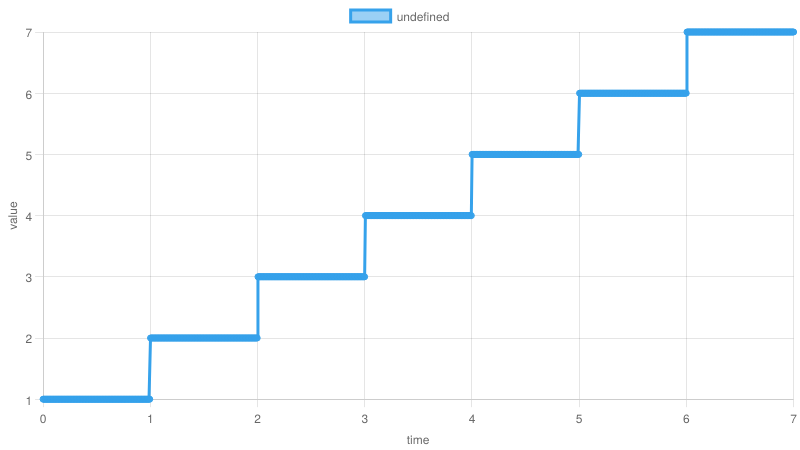
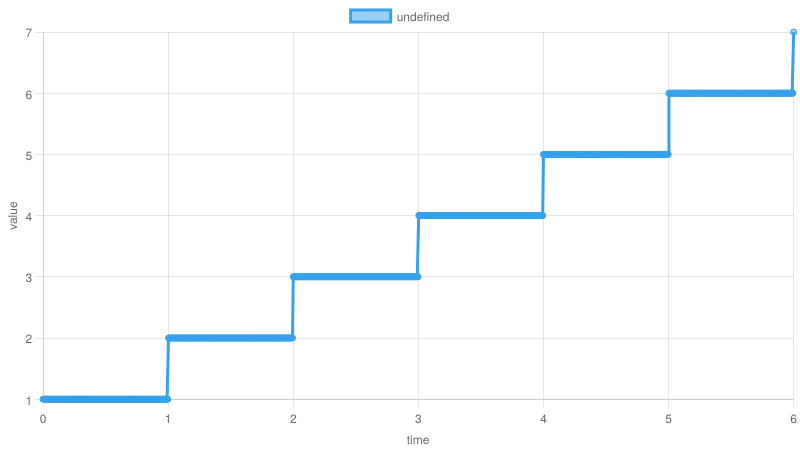
feat: wip

diff --git a/src/all.ts b/src/all.ts
@@ -1,5 +1,5 @@
-import type { Task, TaskFunc, Track } from './index.ts'
-import { runProcedural } from './index.ts'
+import type { Task, TaskFunc, Track } from './index'
+import { runProcedural } from './index'
 
 /**
  * Run multiple tasks in parallel and return a task that is finished when all of the tasks are finished.

diff --git a/test/index.spec.ts b/test/index.spec.ts
@@ -1,6 +1,6 @@
 import { describe, expect, it } from 'vitest'
-import { all } from '../src/all.ts'
-import { any, compile, createTrack, runDeclarative, runProcedural, sleep, toVisibleFrames, useCompiled, useRef } from '../src/index.ts'
+import { all } from '../src/all'
+import { any, compile, createTrack, runDeclarative, runProcedural, sleep, toVisibleFrames, useCompiled, useRef } from '../src/index'
 
 const eps = 1e-5
 describe('index', () => {

diff --git a/src/index.ts b/src/index.ts
@@ -193,7 +193,7 @@ export function any<TNumber extends number>(tasks: Task<TNumber>[]): TaskAny<TNu
 /**
  * Compute whether any ancestor task of the given tasks is not suppended.
  * @param tasks
- * @returns
+ * @returns A map from the given tasks to whether any ancestor task of the task is not suspended.
  */
 function updateTaskActive<TNumber extends number>(tasks: ReadonlySet<Readonly<Task<TNumber>>>): ReadonlyMap<Readonly<Task<TNumber>>, boolean> {
   const taskActive = new Map<Readonly<Task<TNumber>>, boolean>()

diff --git a/README.md b/README.md
@@ -35,7 +35,7 @@ Video generation using TypeScript is a hot topic. Typically such package require
 <!-- skip doccmd[all]: start -->
 
 ```ts
-type DeclarativeFunction<T> = (time: number) => T | undefined
+type DeclarativeFunction<T> = (time: number) => T
 ```
 
 However, it's often more intuitive to write state transitions in a procedural way:
@@ -116,10 +116,16 @@ Our package uses the second approach.
 
 <!-- group doccmd[all]: start -->
 
+<!-- skip doccmd[all]: next -->
+
 ```ts
-import { plotHistory } from './plot.ts'
-import { all, any, compile, createTrack, runDeclarative, runProcedural, sleep, useCompiled, useRef } from './src/index.ts'
+import { all, any, compile, createTrack, runDeclarative, runProcedural, sleep, useCompiled, useRef } from 'procedural-to-declarative'
 ```
+
+<!-- invisible-code-block: ts
+import { plotHistory } from '../plot'
+import { all, any, compile, createTrack, runDeclarative, runProcedural, sleep, useCompiled, useRef } from '../src/index'
+-->
 
 ```ts
 const track = createTrack<number>()
@@ -153,8 +159,8 @@ await plotHistory(track, compiled, x, 'plots/usage-x.png', 1000)
 <!-- group doccmd[all]: start -->
 
 <!-- invisible-code-block: ts
-import { plotHistory } from './plot.ts'
-import { all, any, compile, createTrack, runDeclarative, runProcedural, sleep, useCompiled, useRef } from './src/index.ts'
+import { plotHistory } from '../plot'
+import { all, any, compile, createTrack, runDeclarative, runProcedural, sleep, useCompiled, useRef } from '../src/index'
 -->
 
 ```ts
@@ -179,11 +185,11 @@ function* proc() {
   const task2 = runProcedural(track, task2Func())
 
   yield sleep(1)
-  task1.suspend()
+  task1.isSuspended = true
   yield sleep(1)
-  task1.resume()
+  task1.isSuspended = false
   yield task1
-  task2.suspend()
+  task2.isSuspended = true
 }
 
 runProcedural(track, proc())